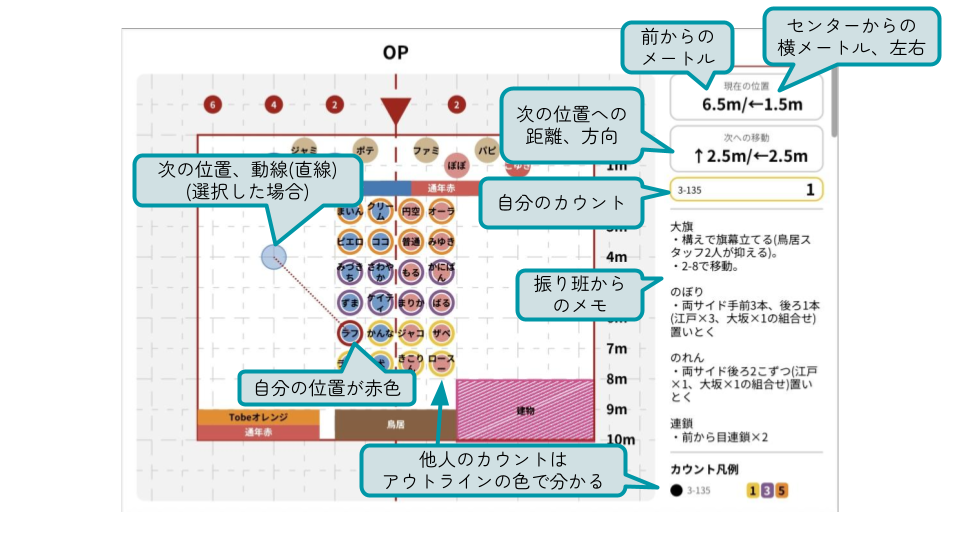
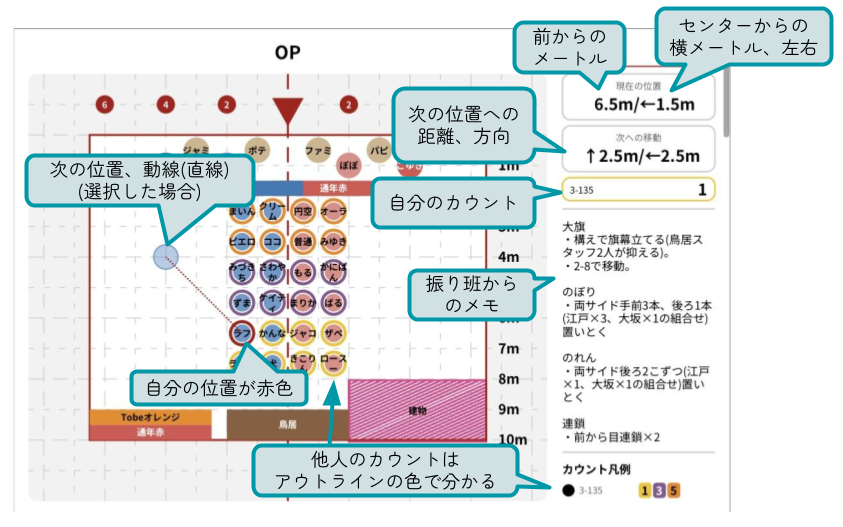
crop image, add message to the site info dialog

diff --git a/src/pages/HomePage.tsx b/src/pages/HomePage.tsx
@@ -32,6 +32,7 @@ import SyncChoreoDialog from "../components/dialogs/SyncChoreoDialog"
 import ExpandableSection from "../components/basic/ExpandableSection"
 import AbsentDancersWarningDialog from "../components/dialogs/AbsentDancersWarningDialog"
 import BeginnersDialog from "../components/dialogs/BeginnersDialog"
+import SiteInfoDialog from "../components/dialogs/SiteInfoDialog"
 
 type HomePageProps = {
   buildInfo?: string,
@@ -251,13 +252,7 @@ export default function HomePage({
               <Dialog.Trigger>
                 <IconButton src={ICON.info} colour="primary" noBorder asDiv/>
               </Dialog.Trigger>
-              <CustomDialog title="サイト情報" hasX>
-                <div className="flex flex-col justify-center gap-2 mb-2">
-                  <span className="mb-2 text-center">問題がある場合は、<br/><b>ケイティー</b>まで<br/>問い合わせてください</span>
-                  <IconLabelButton label="ログをダウンロード" icon={ICON.download} primary onClick={downloadLogs}/>
-                  <span className="text-center text-gray-600">{buildInfo}</span>
-                </div>
-              </CustomDialog>
+              <SiteInfoDialog buildInfo={buildInfo}/>
             </Dialog.Root>
             <Dialog.Root>
               <Dialog.Trigger>

diff --git a/src/components/dialogs/SiteInfoDialog.tsx b/src/components/dialogs/SiteInfoDialog.tsx
@@ -1,0 +1,20 @@
+import { ICON } from "../../lib/consts/consts";
+import { downloadLogs } from "../../lib/helpers/logHelper";
+import { IconLabelButton } from "../basic/Button";
+import CustomDialog from "../basic/CustomDialog";
+
+type SiteInfoDialogProps = {
+  buildInfo: string | undefined
+}
+
+export default function SiteInfoDialog({
+  buildInfo
+}: SiteInfoDialogProps) {
+  return <CustomDialog title="サイト情報" hasX>
+    <div className="flex flex-col justify-center gap-2 mb-2">
+      <span className="mb-2 text-center">アプリの問題がある場合は、<br/><b>ケイティー</b>まで<br/>問い合わせてください。<br/><br/>隊列自体の問題がある場合は、<br/><b>振り付け師</b>まで<br/>問い合わせてください。</span>
+      <IconLabelButton label="ログをダウンロード" icon={ICON.download} primary onClick={downloadLogs}/>
+      <span className="text-center text-gray-600">{buildInfo}</span>
+    </div>
+  </CustomDialog>
+}
